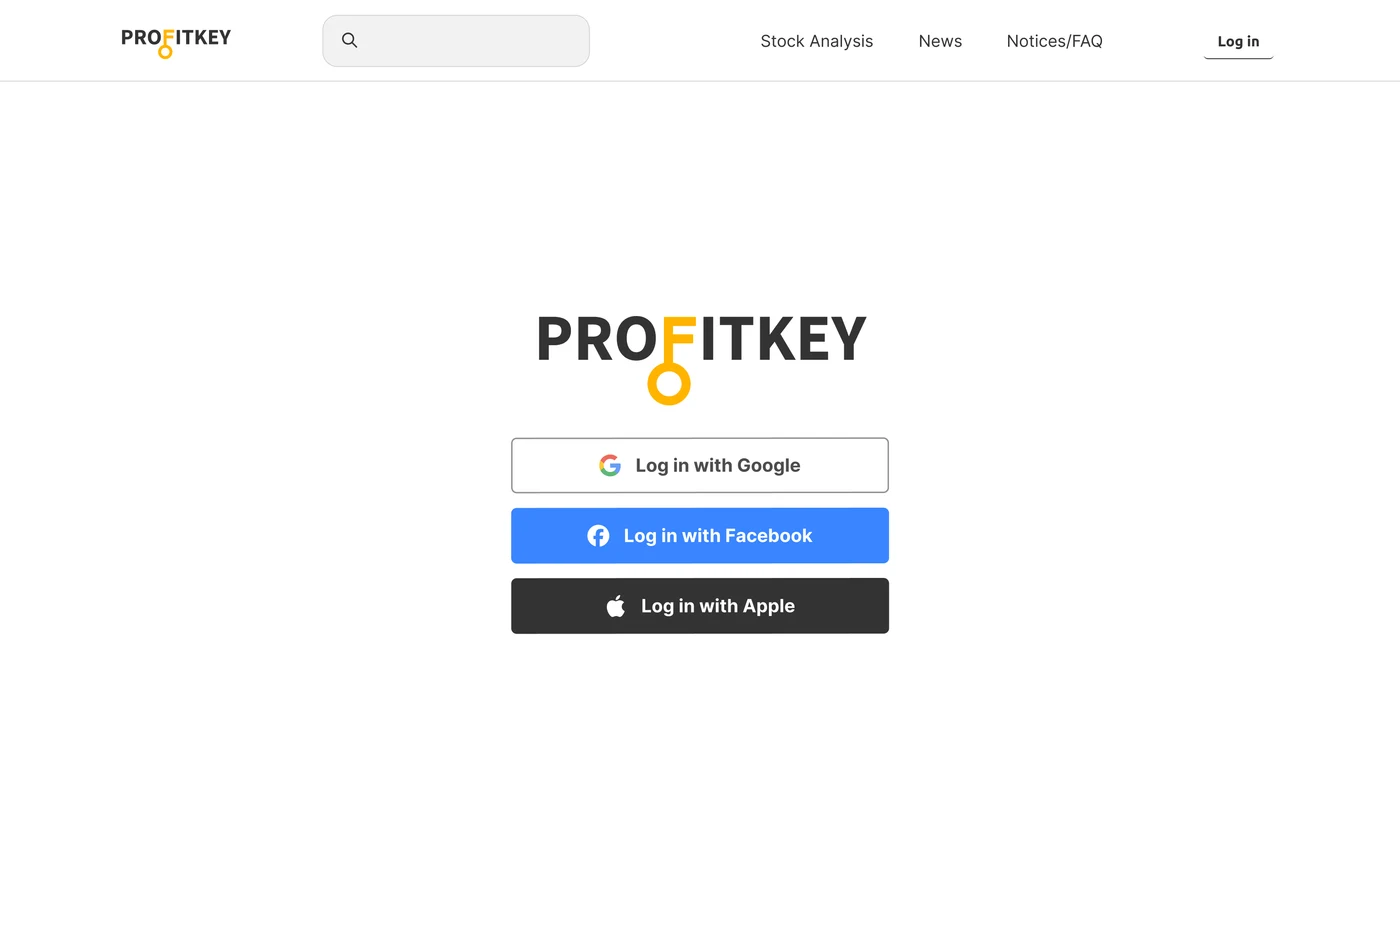
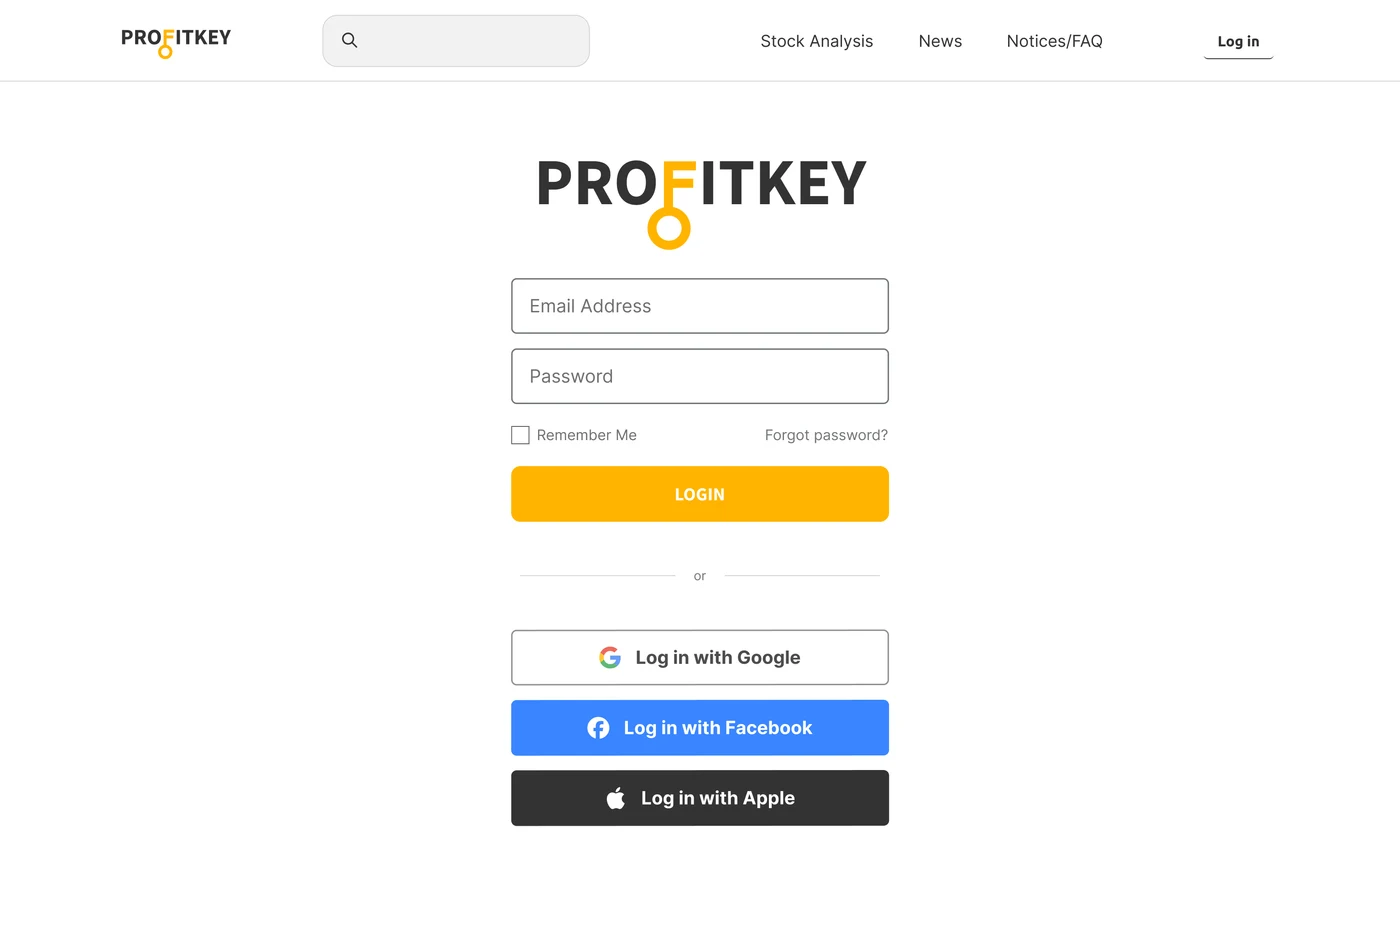
Update the PROFITKEY login screen with the email login form

diff --git a/src/data/projects.ts b/src/data/projects.ts
@@ -456,8 +456,8 @@ export const projects: Project[] = glueAll<Project[]>([
               },
               {
                 title: 'Log in',
-                note: 'Members log in with a Google, Facebook or Apple account.',
-                figure: { ...screen('profitkey-en-login', 'PROFITKEY login page: the logo above three buttons, Log in with Google, Log in with Facebook and Log in with Apple.', 'Log in', 1400, 935), tall: true },
+                note: 'Members log in with an email address and password, or with a Google, Facebook or Apple account.',
+                figure: { ...screen('profitkey-en-login', 'PROFITKEY login page: the logo, email address and password fields, Remember Me, Forgot password, a yellow Login button, then Log in with Google, Facebook and Apple.', 'Log in', 1400, 935), tall: true },
               },
             ],
           },
